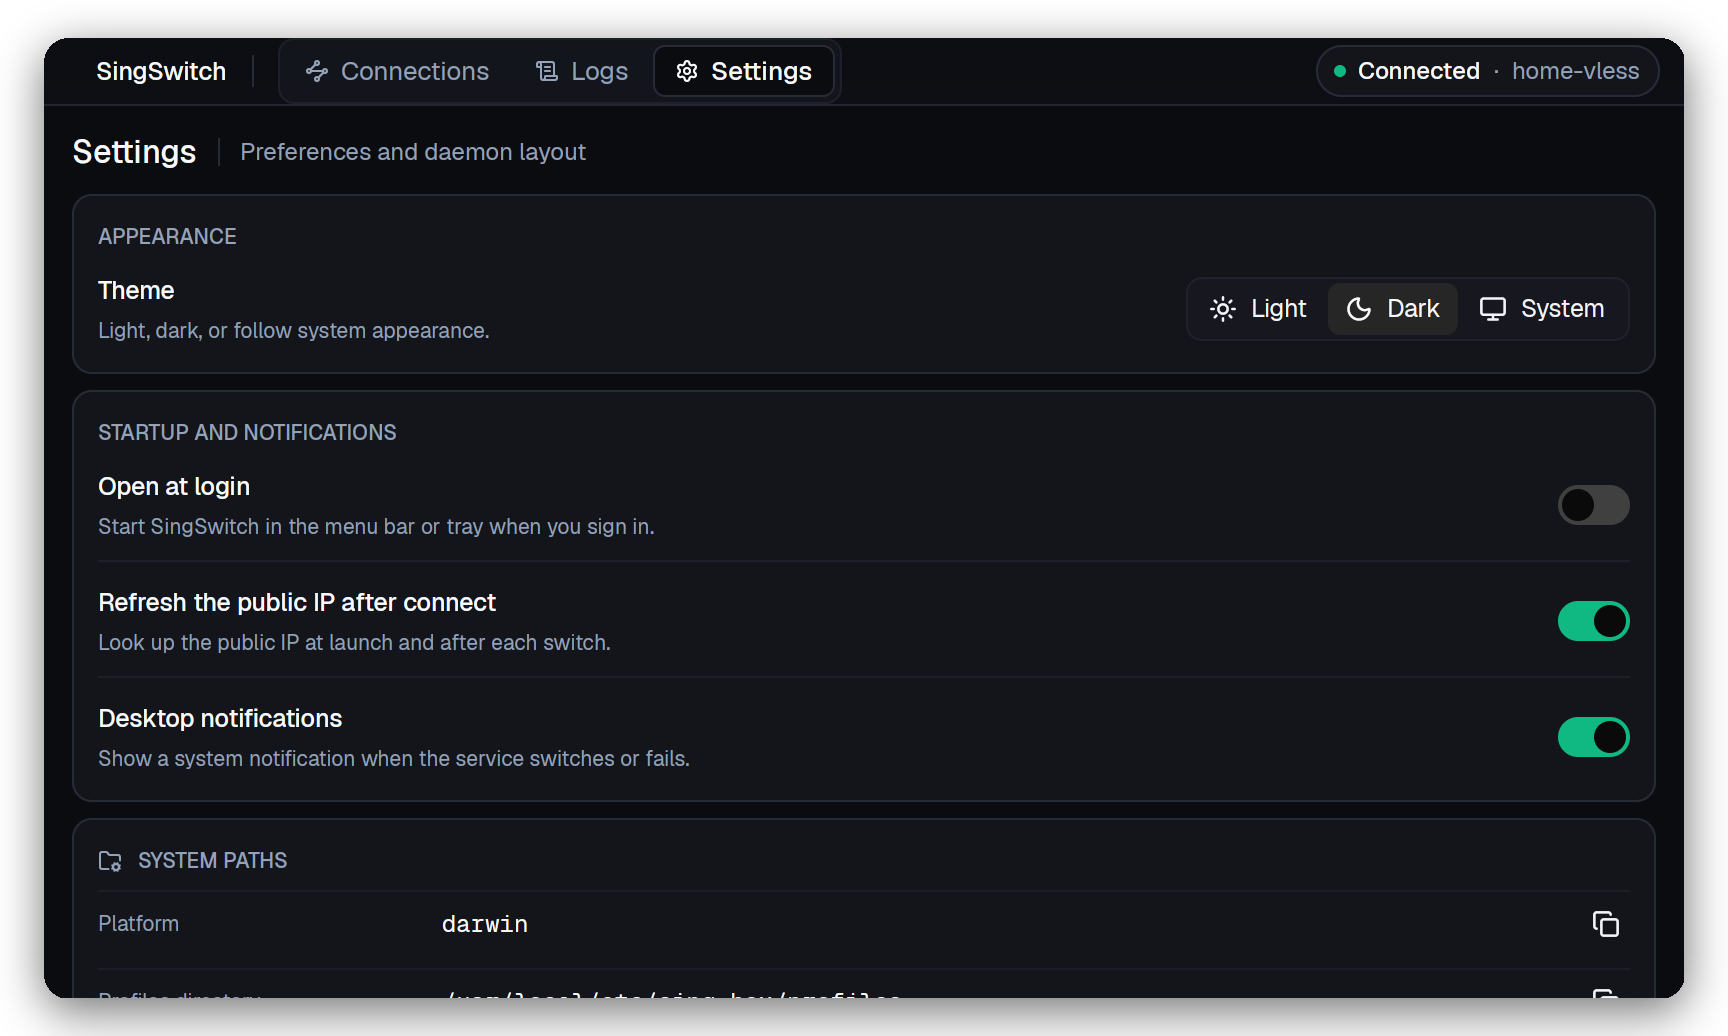
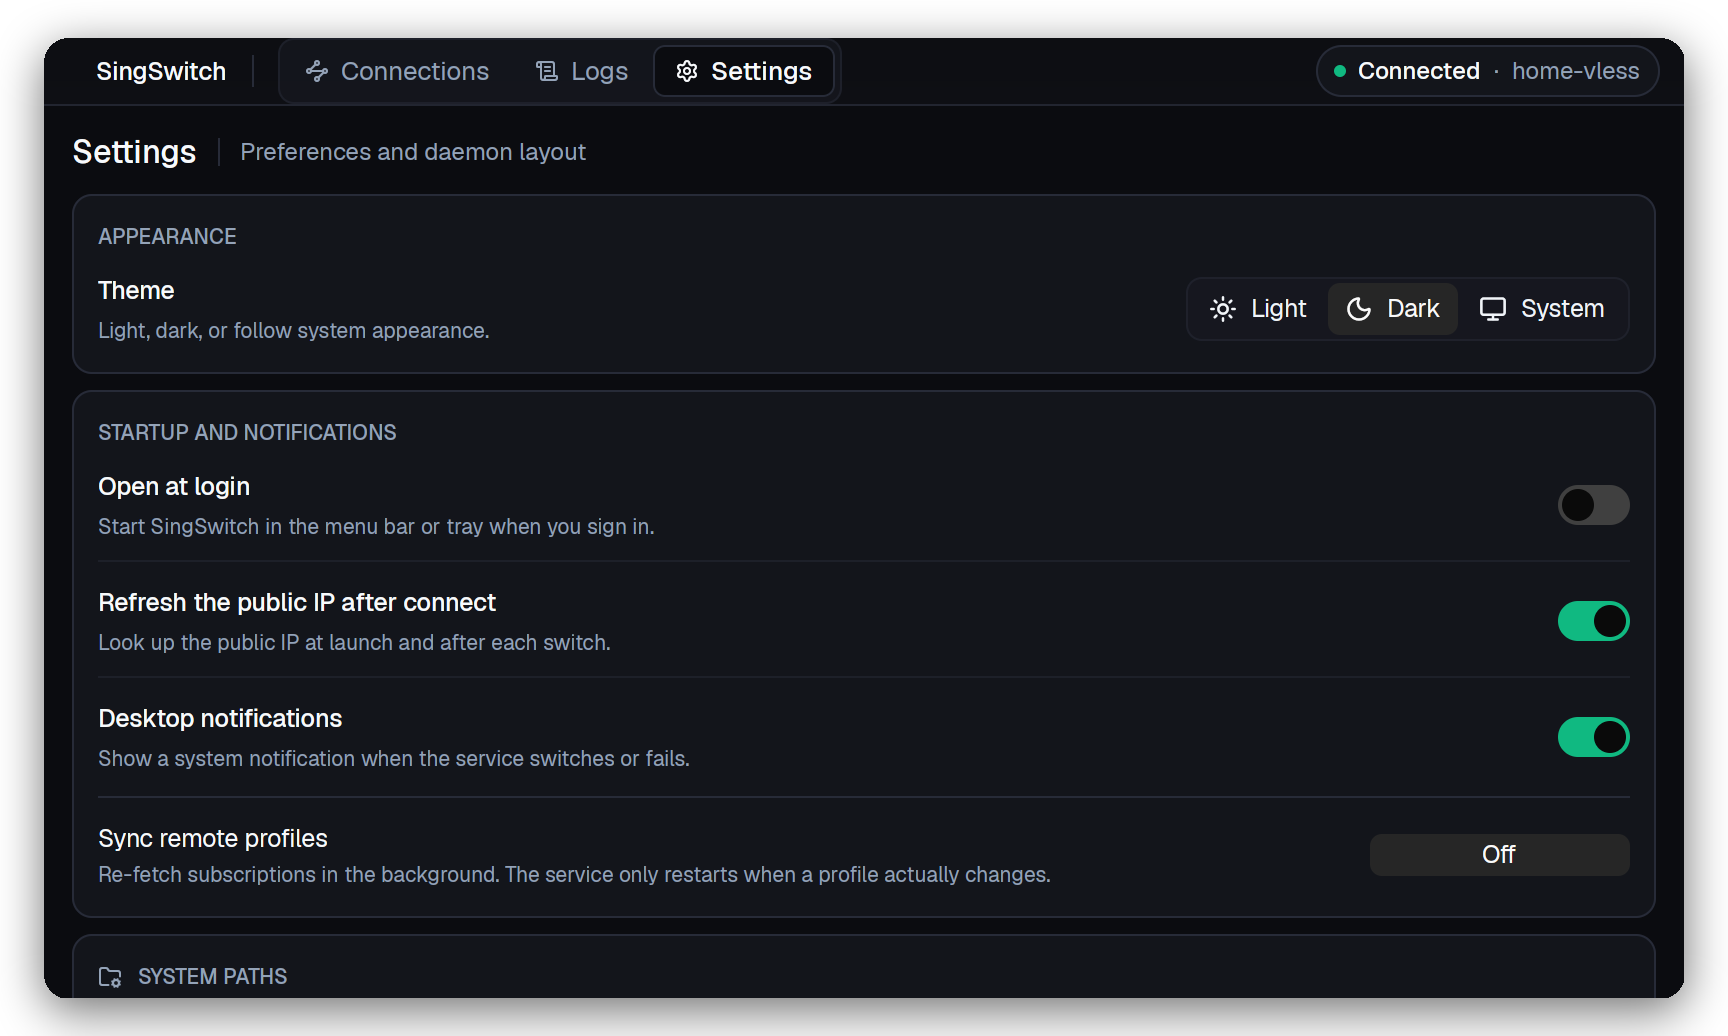
fix(app): make the auto-sync schedule reachable and honest
adversarial verification found the scheduled-sync feature dead on
arrival and unmaintainable:

- last_auto_sync mishandled the never-run case: a fresh install
  (persisted stamp None) mapped to 'just ran', and since the stamp
  was only ever written inside the due branch, the interval could
  never elapse. verification reproduced 48h of ticks with zero
  fires. the interval is now measured in wall-clock seconds taken
  from the persisted stamp or this process's own last fire, and
  never-run is due immediately.

- the monotonic clock the interval ran on stops while the machine
  sleeps, so every nap stretched 'every hour' by the length of the
  nap. wall-clock seconds keep the cadence across suspend.

- the success notice overwrote any unread notice, including the
  settings-write error generated seconds earlier in the same
  cycle, and fired on every cycle even when nothing changed. a
  clean all-unchanged cycle now stays silent, the stamp persists
  only on success, and failures keep the previous stamp's age.

- the interval could only be set by hand-editing the settings
  JSON, and doing so hit the dead-timer bug anyway. settings gains
  a sync-interval row with fixed choices (off/15m/hour/6h/daily),
  clamped through the same setter the settings file converges on.

Changed region(s): [[0.0312, 0.7722, 0.9375, 0.9575], [0.9062, 0.8649, 0.9375, 0.8958]]

diff --git a/crates/singswitch-app/src/state.rs b/crates/singswitch-app/src/state.rs
@@ -170,11 +170,13 @@ pub struct AppStore {
     /// a schedule nobody asked for, while still keeping the next tick from
     /// starting a second sync on top of the first.
     auto_sync_in_flight: bool,
-    /// When this process last ran an automatic sync, on the monotonic clock.
+    /// A scheduled sync is running (see `auto_sync_in_flight`).
     ///
-    /// Mirrors `settings.last_auto_sync_at`, which is wall-clock; the ticker
-    /// compares against this one and the stored value only seeds it at launch.
-    last_auto_sync: Option<Instant>,
+    /// The interval is measured on the wall clock, not `Instant`: a closed
+    /// laptop lid freezes the monotonic clock, which would stretch "every
+    /// hour" by the length of every nap. Wall clock keeps the cadence honest
+    /// across suspend and relaunch alike.
+    last_auto_sync_at_wall: Option<u64>,
     /// Feedback scoped to the control or screen that produced it. The Toolbar
     /// origin is the one strip that spans the window.
     pub notice: Option<Notice>,
@@ -312,7 +314,7 @@ impl AppStore {
             validation_generation: 0,
             busy_phase: None,
             auto_sync_in_flight: false,
-            last_auto_sync: None,
+            last_auto_sync_at_wall: None,
             notice: init_error.map(|m| Notice {
                 origin: NoticeOrigin::Toolbar,
                 tone: BannerTone::Warning,
@@ -709,6 +711,23 @@ impl AppStore {
         if let Some(ctrl) = &self.ctrl {
             ctrl.set_notifications_enabled(enabled);
         }
+        self.persist_settings(cx);
+        cx.notify();
+    }
+
+    /// Set the automatic sync interval, clamped to the supported range.
+    ///
+    /// `minutes` arrives from a menu of fixed choices, but it is clamped here
+    /// as well: the settings file is hand-editable, and the setter is the one
+    /// place every path converges.
+    pub fn set_auto_sync_interval_minutes(&mut self, minutes: u32, cx: &mut Context<Self>) {
+        self.settings.auto_sync_interval_minutes = minutes.clamp(
+            crate::theme::MIN_AUTO_SYNC_INTERVAL_MINUTES,
+            crate::theme::MAX_AUTO_SYNC_INTERVAL_MINUTES,
+        );
+        // A new schedule starts counting now, not from whenever the last
+        // cycle ran under the old interval.
+        self.last_auto_sync_at_wall = unix_now();
         self.persist_settings(cx);
         cx.notify();
     }
@@ -1312,7 +1331,7 @@ impl AppStore {
     /// Returns whether a sync should start now; on `true` it also records the
     /// attempt, so a sync that fails still waits a full interval before the
     /// next one rather than retrying every second.
-    fn auto_sync_due(&mut self, now: Instant) -> bool {
+    fn auto_sync_due(&mut self, now_unix: Option<u64>) -> bool {
         let minutes = self.settings.auto_sync_interval_minutes;
         if minutes == 0 {
             return false;
@@ -1324,36 +1343,29 @@ impl AppStore {
         if self.busy_phase.is_some() || self.auto_sync_in_flight || self.ctrl.is_none() {
             return false;
         }
-        let interval = Duration::from_secs(u64::from(minutes) * 60);
-        // The clock the interval is measured against is persisted, so a
-        // relaunch inside the window does not sync again.
-        let due = self
-            .last_auto_sync(now)
-            .is_none_or(|last| now.saturating_duration_since(last) >= interval);
+        let Some(now) = now_unix else {
+            // No wall clock this instant: decide again next tick rather than
+            // guessing.
+            return false;
+        };
+        let interval = u64::from(minutes) * 60;
+        // `last` is the wall-clock seconds of the last sync — the persisted
+        // stamp while it is young, this process's own memory once it is the
+        // fresher of the two. Never having run is due immediately; a stamp in
+        // the future (clock moved back, or the file edited) counts as "just
+        // ran" so a regression never stampedes.
+        let last = self
+            .last_auto_sync_at_wall
+            .or(self.settings.last_auto_sync_at);
+        let elapsed = last.and_then(|l| now.checked_sub(l)).unwrap_or(u64::MAX);
+        let due = elapsed >= interval;
         if due {
-            self.last_auto_sync = Some(now);
+            self.last_auto_sync_at_wall = Some(now);
+            // The persisted stamp is updated only on success below; this
+            // in-memory copy keeps the next tick from re-firing while the
+            // background half runs.
         }
         due
-    }
-
-    /// When auto-sync last ran, as an `Instant` on this process's clock.
-    ///
-    /// `None` means it has never run, which is due immediately. The persisted
-    /// value is wall-clock (unix seconds) because it outlives the process;
-    /// `Instant` is what the ticker compares against. A stored time in the
-    /// future (clock moved back, or the file edited) counts as "just ran"
-    /// rather than as "overdue forever".
-    fn last_auto_sync(&self, now: Instant) -> Option<Instant> {
-        if let Some(local) = self.last_auto_sync {
-            return Some(local);
-        }
-        let elapsed_since_stamp = self
-            .settings
-            .last_auto_sync_at
-            .and_then(|secs| unix_now().and_then(|now| now.checked_sub(secs)))
-            .map(Duration::from_secs)
-            .unwrap_or(Duration::ZERO);
-        Some(now.checked_sub(elapsed_since_stamp).unwrap_or(now))
     }
 
     /// Run one automatic sync when its interval has come around.
@@ -1362,13 +1374,13 @@ impl AppStore {
     /// "Sync remote profiles" button does, on the same background task shape,
     /// so an automatic sync and a manual one cannot behave differently.
     pub fn maybe_auto_sync(&mut self, cx: &mut Context<Self>) {
-        if !self.auto_sync_due(Instant::now()) {
+        if !self.auto_sync_due(unix_now()) {
             return;
         }
-        self.settings.last_auto_sync_at = unix_now();
-        // The notice and the timer are separate failures: a settings file that
-        // cannot be written must not stop the sync, and the sync reports itself.
-        self.persist_settings(cx);
+        // The persisted stamp is written only after the sync succeeds, so a
+        // settings file that cannot be written cannot silently resurrect the
+        // old stamp; and persist_settings' own error notice is not overwritten
+        // by this cycle's completion notice a second later.
         self.run_auto_sync(cx);
     }
 
@@ -1397,34 +1409,50 @@ impl AppStore {
                 if let Some(s) = snap {
                     store.apply_snapshot(s, true);
                 }
-                store.notice = Some(match res {
-                    Ok(report) if !report.failed.is_empty() => Notice {
-                        origin: NoticeOrigin::Toolbar,
-                        tone: BannerTone::Warning,
-                        message: format!(
-                            "Automatic sync failed for {}",
-                            count_noun(report.failed.len(), "profile", "profiles")
-                        ),
-                    },
-                    Ok(report) if report.synced.is_empty() => Notice {
-                        origin: NoticeOrigin::Toolbar,
-                        tone: BannerTone::Info,
-                        message: "No remote profiles to sync".to_string(),
-                    },
-                    Ok(report) => Notice {
-                        origin: NoticeOrigin::Toolbar,
-                        tone: BannerTone::Success,
-                        message: format!(
-                            "Profiles synced automatically ({})",
-                            count_noun(report.synced.len(), "profile", "profiles")
-                        ),
-                    },
-                    Err(err) => Notice {
-                        origin: NoticeOrigin::Toolbar,
-                        tone: BannerTone::Error,
-                        message: error_text(&err),
-                    },
-                });
+                // Only disturb the notice when the outcome deserves one: a
+                // clean cycle reports nothing (the user asked for freshness,
+                // not for commentary), and an error notice the user has not
+                // read yet survives a scheduled cycle landing behind it.
+                match &res {
+                    Ok(report) if !report.failed.is_empty() => {
+                        store.notice = Some(Notice {
+                            origin: NoticeOrigin::Toolbar,
+                            tone: BannerTone::Warning,
+                            message: format!(
+                                "Automatic sync failed for {}",
+                                count_noun(report.failed.len(), "profile", "profiles")
+                            ),
+                        });
+                    }
+                    Ok(report) if report.synced.is_empty() => {
+                        store.notice = Some(Notice {
+                            origin: NoticeOrigin::Toolbar,
+                            tone: BannerTone::Info,
+                            message: "No remote profiles to sync".to_string(),
+                        });
+                    }
+                    Ok(_) => {
+                        // Persist the stamp on success only: this is the value
+                        // a relaunch seeds its own timer from. Writing it with
+                        // the result lets a failure keep its age, so the next
+                        // cycle is still a full interval away.
+                        if let Some(stamp) = store.last_auto_sync_at_wall {
+                            store.settings.last_auto_sync_at = Some(stamp);
+                            store.persist_settings(cx);
+                        }
+                        // Profiles were fetched and stored without error. Not
+                        // every one of those changed the running profile, and a
+                        // cycle that fetched-and-verified but stored nothing
+                        // new deserves no banner at all.
+                    }
+                    Err(err) => {
+                        store.notice = Some(Notice {
+                            origin: NoticeOrigin::Toolbar,
+                            tone: BannerTone::Error,
+                            message: error_text(err),
+                        });
+                    }
+                }
                 cx.notify();
             });
         })

diff --git a/crates/singswitch-app/src/views/settings.rs b/crates/singswitch-app/src/views/settings.rs
@@ -5,8 +5,8 @@ use gpui_kit::component::scroll::ScrollableElement as _;
 use gpui_kit::component::switch::Switch;
 use gpui_kit::component::{ActiveTheme as _, Icon, Sizable as _, StyledExt as _, h_flex, v_flex};
 use gpui_kit::{
-    ClipboardItem, Context, Entity, IntoElement, ParentElement as _, Render, SharedString,
-    Styled as _, Window, div, prelude::FluentBuilder as _, px,
+    AnyElement, ClipboardItem, Context, Entity, IntoElement, ParentElement as _, Render,
+    SharedString, Styled as _, Window, div, prelude::FluentBuilder as _, px,
 };
 use singswitch_core::layout::Layout;
 
@@ -228,6 +228,80 @@ fn render_behavior_card(
             },
             cx,
         ))
+        .child(render_auto_sync_row(settings, store, cx))
+}
+
+/// One row presenting the auto-sync interval as a labeled value with a menu
+/// of the supported choices. An interval's natural representation is a
+/// duration, not a toggle, so it is not a `SwitchRowSpec`.
+fn render_auto_sync_row(
+    settings: &crate::theme::UiSettings,
+    store: &Entity<AppStore>,
+    cx: &gpui_kit::App,
+) -> AnyElement {
+    use gpui_kit::component::menu::{DropdownMenu as _, PopupMenuItem};
+    const CHOICES: [(u32, &str); 5] = [
+        (0, "Off"),
+        (15, "Every 15 minutes"),
+        (60, "Every hour"),
+        (360, "Every 6 hours"),
+        (1440, "Daily"),
+    ];
+    let store_for_menu = store.clone();
+    let minutes = settings.auto_sync_interval_minutes;
+    let label = CHOICES
+        .iter()
+        .find(|(value, _)| *value == minutes)
+        .map(|(_, label)| label.to_string())
+        .unwrap_or_else(|| format!("Custom ({minutes} min)"));
+
+    h_flex()
+        .w_full()
+        .pt(px(10.0))
+        .mt(px(2.0))
+        .border_t_1()
+        .border_color(cx.theme().border)
+        .justify_between()
+        .items_center()
+        .child(
+            v_flex()
+                .flex_1()
+                .pr(px(12.0))
+                .child(div().text_sm().child("Sync remote profiles"))
+                .child(
+                    div()
+                        .text_xs()
+                        .text_color(cx.theme().muted_foreground)
+                        .child("Re-fetch subscriptions in the background. The service only restarts when a profile actually changes."),
+                ),
+        )
+        .child(
+            Button::new("set-auto-sync")
+                .secondary()
+                .small()
+                .min_w(px(130.0))
+                .justify_between()
+                .label(label)
+                .disabled(false)
+                .dropdown_menu(move |menu, _, _| {
+                    let mut menu = menu;
+                    for (value, label) in CHOICES {
+                        let checked = value == minutes;
+                        let store = store_for_menu.clone();
+                        menu = menu.item(
+                            PopupMenuItem::new(label.to_string())
+                                .checked(checked)
+                                .on_click(move |_, _, cx| {
+                                    store.update(cx, |s, cx| {
+                                        s.set_auto_sync_interval_minutes(value, cx)
+                                    });
+                                }),
+                        );
+                    }
+                    menu
+                }),
+        )
+        .into_any_element()
 }
 
 /// A single settings toggle row: title, description, and a bound switch.
